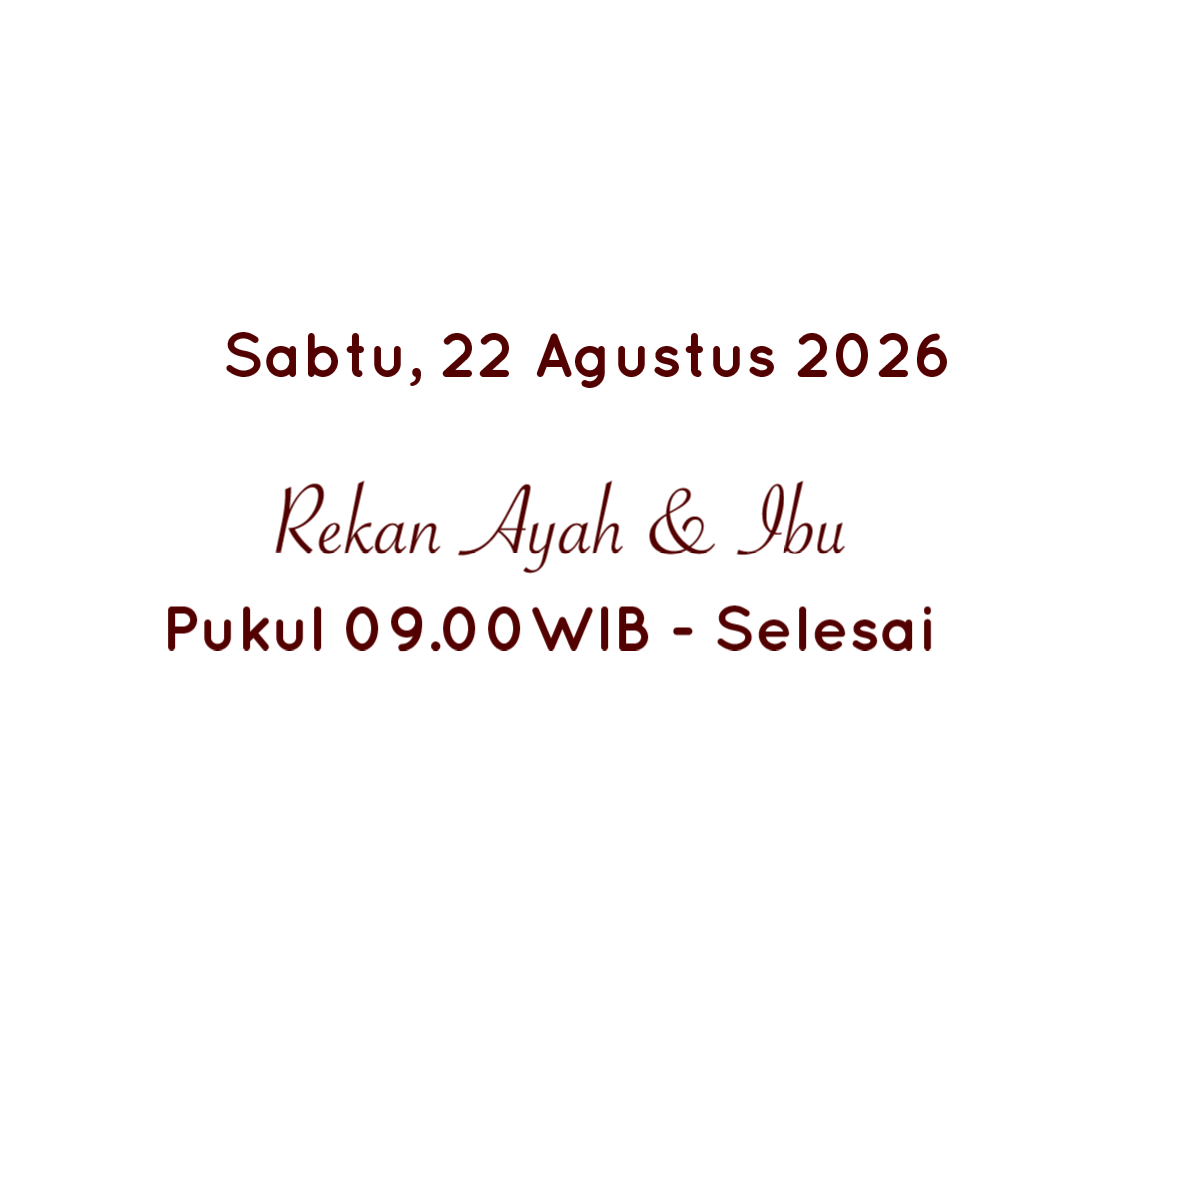
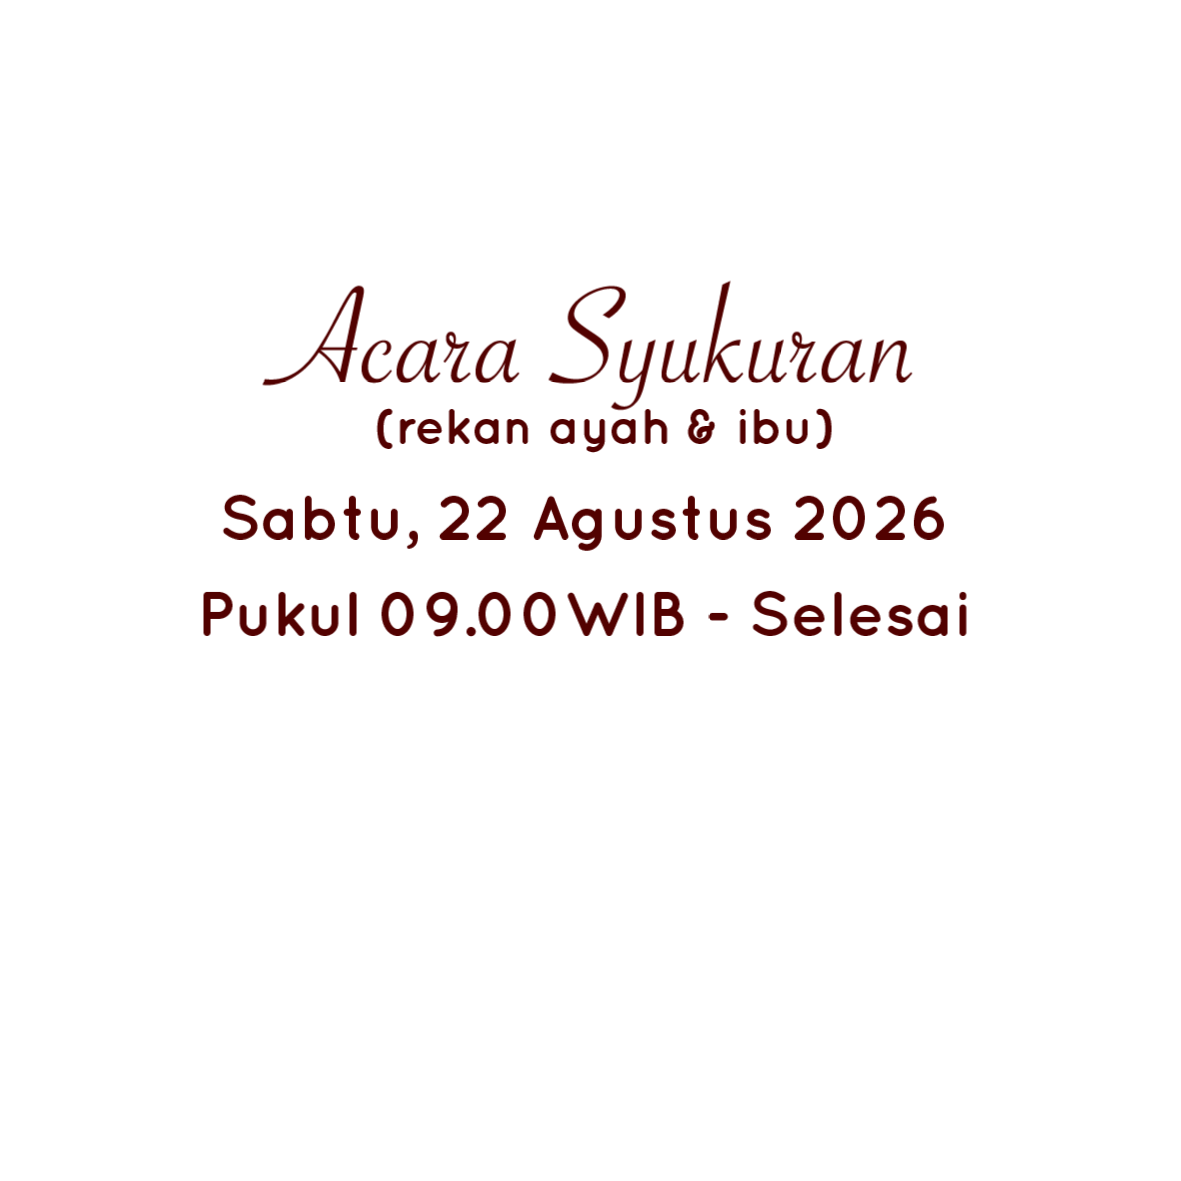
feat: add new background image assets to public directory

Changed region(s): [[0.1219, 0.2439, 0.823, 0.5487]]

diff --git a/components/CinematicScene.tsx b/components/CinematicScene.tsx
@@ -1108,16 +1108,29 @@ export function CinematicScene() {
     { type: 'SlideHeartbeat', tex: text62Tex, x: 1, y: -1, sizeMult: 0.65, delay: 0.1, multiplier: 0.12, zOffset: 2 }
   ];
 
+  // const rundownSlideConfig = [
+  //   { type: 'SlidePicture', tex: text71Tex, x: 1, y: 22, sizeMult: 0.6, delay: 2, multiplier: 0, zOffset: 2 },
+  //   { type: 'SlidePicture', tex: text72Tex, x: 1, y: -19, sizeMult: 0.55, delay: 2, multiplier: 0, zOffset: 2 },
+  //   { type: 'SlideText', tex: text7AkadTex, x: 1, y: 15.8, sizeMult: 0.6, delay: 2, multiplier: 0.12, zOffset: 2, animation: false },
+  //   // { type: 'SlideText', tex: text7AkadTglTex, x: 1, y: 10, sizeMult: 0.55, delay: 2, multiplier: 0.12, zOffset: 2, animation: false },
+  //   { type: 'SlideText', tex: text7ResepsiTex, x: 0.5, y: -1.9, sizeMult: 0.6, delay: 2, multiplier: 0.12, zOffset: 2, animation: false },
+  //   // { type: 'SlideText', tex: text7ResepsiTglTex, x: 1.5, y: -1.5, sizeMult: 0.6, delay: 2, multiplier: 0.12, zOffset: 2, animation: false },
+  //   { type: 'SlideText', tex: palette8Tex, x: 0.5, y: -19, sizeMult: 0.5, delay: 2, multiplier: 0.12, zOffset: 2, animation: false },
+  //   { type: 'SlideHtml', tex: text7ResepsiTglTex, x: 0, y: -29, sizeMult: 0.55, delay: 2, multiplier: 0.12, link: "https://maps.app.goo.gl/k8Vzo88j5rpBji9U6?g_st=iw", text: "Open Maps"  },
+  //   // { type: 'SlideHtml', x: 1, y: -30.5, sizeRaw: 0.2, delay: 1, multiplier: 0.12, link: "https://maps.app.goo.gl/k8Vzo88j5rpBji9U6?g_st=iw", text: "Open Maps" },
+  //   { type: 'SlideRotate', tex: bunga1Tex, x: 27, y: 21.5, sizeMult: 0.5, delay: 2, multiplier: 0.12, zOffset: 2, rotateSpeed: 1.5, rotateAmount: 0.05, pivot: "middle" },
+  //   { type: 'SlideRotate', tex: bunga3Tex, x: -27, y: 1, sizeMult: 0.5, delay: 2, multiplier: 0.12, zOffset: 2, rotateSpeed: 1.5, rotateAmount: 0.05, pivot: "middle" }
+  // ];
+
   const rundownSlideConfig = [
     { type: 'SlidePicture', tex: text71Tex, x: 1, y: 22, sizeMult: 0.6, delay: 2, multiplier: 0, zOffset: 2 },
     { type: 'SlidePicture', tex: text72Tex, x: 1, y: -19, sizeMult: 0.55, delay: 2, multiplier: 0, zOffset: 2 },
-    { type: 'SlideText', tex: text7AkadTex, x: 1, y: 15.8, sizeMult: 0.6, delay: 2, multiplier: 0.12, zOffset: 2, animation: false },
-    // { type: 'SlideText', tex: text7AkadTglTex, x: 1, y: 10, sizeMult: 0.55, delay: 2, multiplier: 0.12, zOffset: 2, animation: false },
-    { type: 'SlideText', tex: text7ResepsiTex, x: 0.5, y: -1.9, sizeMult: 0.6, delay: 2, multiplier: 0.12, zOffset: 2, animation: false },
-    // { type: 'SlideText', tex: text7ResepsiTglTex, x: 1.5, y: -1.5, sizeMult: 0.6, delay: 2, multiplier: 0.12, zOffset: 2, animation: false },
-    { type: 'SlideText', tex: palette8Tex, x: 0.5, y: -19, sizeMult: 0.5, delay: 2, multiplier: 0.12, zOffset: 2, animation: false },
-    { type: 'SlideHtml', tex: text7ResepsiTglTex, x: 0, y: -29, sizeMult: 0.55, delay: 2, multiplier: 0.12, link: "https://maps.app.goo.gl/k8Vzo88j5rpBji9U6?g_st=iw", text: "Open Maps"  },
-    // { type: 'SlideHtml', x: 1, y: -30.5, sizeRaw: 0.2, delay: 1, multiplier: 0.12, link: "https://maps.app.goo.gl/k8Vzo88j5rpBji9U6?g_st=iw", text: "Open Maps" },
+    { type: 'SlideText', tex: text7OrtuTex, x: 2, y: 15, sizeMult: 0.6, delay: 2, multiplier: 0.12, zOffset: 2, animation: false },
+    // { type: 'SlideText', tex: text7OrtuTglTex, x: 1, y: 7, sizeMult: 0.55, delay: 2, multiplier: 0.12, zOffset: 2, animation: false },
+    { type: 'SlideText', tex: text7AkadTex, x: 1.5, y: -2, sizeMult: 0.6, delay: 2, multiplier: 0.12, zOffset: 2, animation: false },
+    // { type: 'SlideText', tex: text7AkadTglTex, x: 1.5, y: -1.5, sizeMult: 0.6, delay: 2, multiplier: 0.12, zOffset: 2, animation: false },
+    { type: 'SlideText', tex: text7ResepsiTex, x: 1.5, y: -21, sizeMult: 0.6, delay: 2, multiplier: 0.12, zOffset: 2, animation: false },
+    // { type: 'SlideText', tex: text7ResepsiTglTex, x: 1.5, y: -22.5, sizeMult: 0.55, delay: 2, multiplier: 0.12, zOffset: 2, animation: false },
     { type: 'SlideRotate', tex: bunga1Tex, x: 27, y: 21.5, sizeMult: 0.5, delay: 2, multiplier: 0.12, zOffset: 2, rotateSpeed: 1.5, rotateAmount: 0.05, pivot: "middle" },
     { type: 'SlideRotate', tex: bunga3Tex, x: -27, y: 1, sizeMult: 0.5, delay: 2, multiplier: 0.12, zOffset: 2, rotateSpeed: 1.5, rotateAmount: 0.05, pivot: "middle" }
   ];
@@ -1278,11 +1291,11 @@ export function CinematicScene() {
                   {rundownSlideConfig.map((config, i) => renderSlideElement(config, i, slideW, bgW, bgH, index))}
                 </>
               )}
-              {/* {slide.id === "dresscode" && (
+              {slide.id === "dresscode" && (
                 <>
                   {dresscodeSlideConfig.map((config, i) => renderSlideElement(config, i, slideW, bgW, bgH, index))}
                 </>
-              )} */}
+              )}
               {slide.id === "stories" && (
                 <>
                   {storySlideConfig.map((config, i) => renderSlideElement(config, i, slideW, bgW, bgH, index))}

diff --git a/app/weddingConfig.ts b/app/weddingConfig.ts
@@ -75,14 +75,14 @@ export const WEDDING_CONFIG = {
       elements: [
       ]
     },
-    // {
-    //   id: "dresscode",
-    //   background: "/background/08&11 dresscode dan gift.JPG",
-    //   bgHeightMultiplier: 0.5, // Adjust height of the background (e.g., 0.8 to shrink, 1.2 to stretch vertically)
-    //   bgWidthMultiplier: 0.75,  // Adjust width of the background (e.g., 0.8 to shrink, 1.2 to stretch horizontally)
-    //   elements: [
-    //   ]
-    // },
+    {
+      id: "dresscode",
+      background: "/background/08&11 dresscode dan gift.JPG",
+      bgHeightMultiplier: 0.5, // Adjust height of the background (e.g., 0.8 to shrink, 1.2 to stretch vertically)
+      bgWidthMultiplier: 0.75,  // Adjust width of the background (e.g., 0.8 to shrink, 1.2 to stretch horizontally)
+      elements: [
+      ]
+    },
     {
       id: "stories",
       background: "/background/09 Kata kata.JPG",
